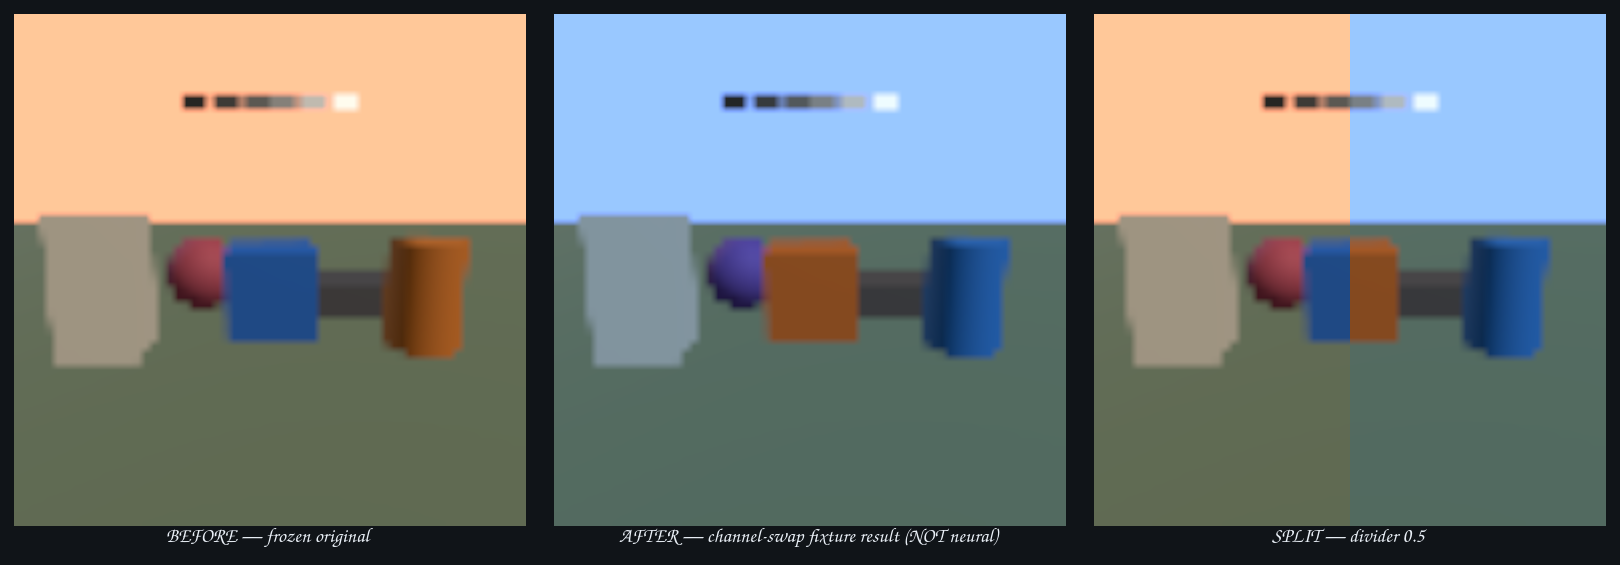
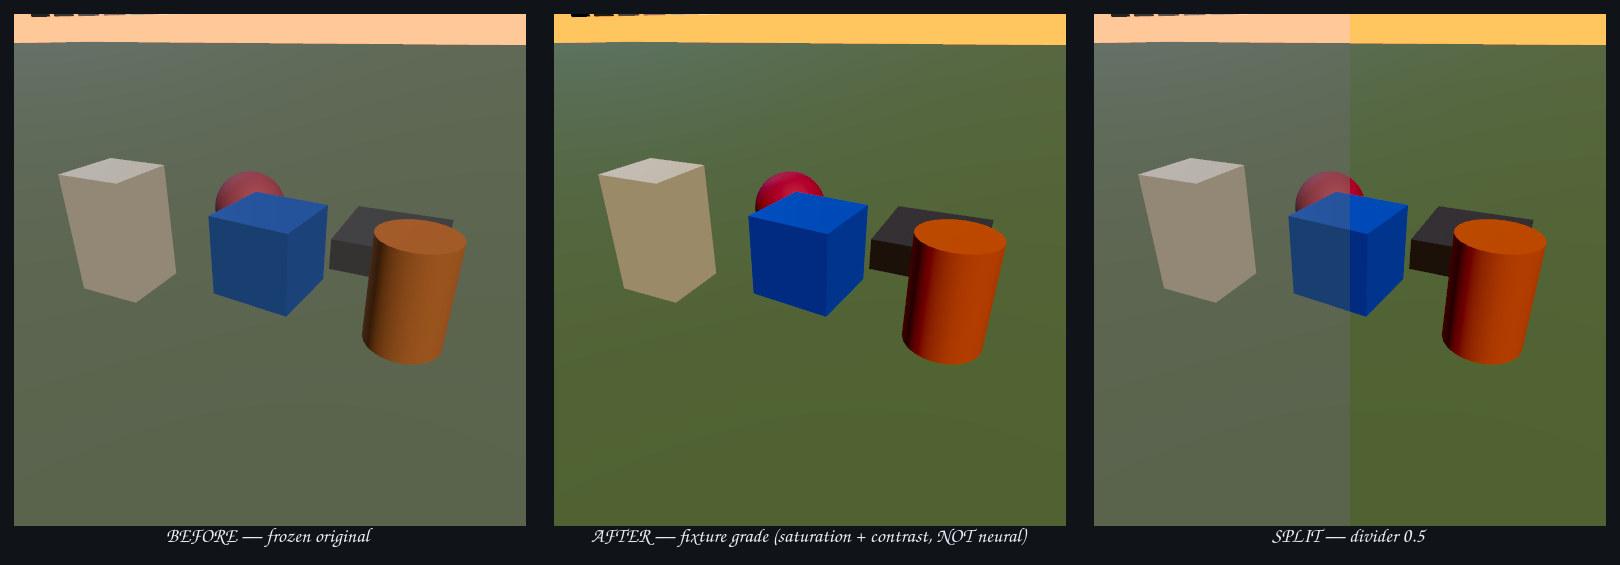
fix(neural): grade the frame instead of recolouring it, and stop blurring it 8x
Two reasons the Before/After pair was unreadable, both in the fixture rather
than the pipeline.

**Every pixel was recoloured.** The deterministic fixture was a channel swap,
chosen because it is exactly checkable: every output pixel must equal the
input's swapped channels, bit for bit. That is a good transport proof and a
bad picture — it reads as a bug rather than as a pipeline that works. It is
now a saturation lift around luma plus a contrast curve pivoted on mid grey.
Still deterministic and still per-pixel, so `fixture-proof.ts` re-derives it
on the CPU and compares to within the single f16 rounding step the GPU adds;
a dropped pass, a stale capture or a foreign device still misses by far more
than the tolerance and fails as `NEURAL_PROOF_GRADE`. The frame keeps its
colours and gains punch: ground 90,100,77 -> 80,98,50, sky 255,200,153 ->
255,197,94.

**Every pixel was blurred 8x.** The capture pair was 64x64 and is displayed
at full frame, so the Before panel was the 512x512 render stretched from a
64x64 texture — an 8x magnification, and no scene detail survives that. The
frozen original's horizon edge spanned 9 rows against the live frame's 3.
The pair is now sized from the viewport on the first frame and capped at the
PRD's 512-pixel neural input without changing the aspect: 262,144 pixels
instead of 4,096, and an edge of 3 rows with a sharper delta than the live
frame's.

The scene is also reframed onto a shallow set — horizon in the top third,
[…]

diff --git a/packages/create-threenative/agent-docs/examples/neural-rendering/NeuralSnapshotScene.ts b/packages/create-threenative/agent-docs/examples/neural-rendering/NeuralSnapshotScene.ts
@@ -60,7 +60,7 @@ function cardRow(
   const materials = colors.map((rgb) => new MeshStandardMaterial({ color: new Color(...rgb) }));
   materials.forEach((material, index) => {
     const patch = new Mesh(geometry, material);
-    patch.position.set((index - (colors.length - 1) / 2) * step, y, -3.4);
+    patch.position.set(-4.3 + (index - (colors.length - 1) / 2) * step, y, -2.2);
     ctx.add(patch);
   });
   return materials;
@@ -87,11 +87,15 @@ export class NeuralSnapshotScene extends Scene<NeuralSandboxState> {
   #cleanup: (() => Promise<void>) | undefined;
 
   override enter(ctx: ICtx<NeuralSandboxState>): SceneFrame<NeuralSandboxState> {
-    console.log("TN_NEURAL_FIXTURE: channel-swap integration test, NOT neural enhancement");
+    console.log("TN_NEURAL_FIXTURE: deterministic grade integration test, NOT neural enhancement");
     const bridge = createWebGPUInterop(ctx.renderer);
     const camera = ctx.camera as PerspectiveCamera;
-    camera.position.set(0, 0.7, 5.6);
-    camera.lookAt(0, -0.35, 0);
+    // Looking down onto a shallow set, so the horizon sits in the top third and the props fill
+    // the frame. A camera at eye height aimed at the horizon put a flat band of sky over a flat
+    // band of ground with the props a smudge in between, which is not a frame anyone can judge a
+    // render path on.
+    camera.position.set(2.2, 1.9, 4.8);
+    camera.lookAt(0, -0.9, 0);
     camera.updateProjectionMatrix();
     ctx.scene.background = new Color(...backgrounds[0]);
 
@@ -101,7 +105,9 @@ export class NeuralSnapshotScene extends Scene<NeuralSandboxState> {
     key.position.set(4, 6, 4);
     const rim = new DirectionalLight(0x9fc4ff, 1.1);
     rim.position.set(-5, 3, -4);
-    for (const light of [new AmbientLight(0xffffff, 0.55), key, rim]) ctx.scene.add(light);
+    // Fill is deliberately low: at 0.55 ambient every surface sat within a few percent of the
+    // ground and the props read as one flat mass.
+    for (const light of [new AmbientLight(0xffffff, 0.22), key, rim]) ctx.scene.add(light);
 
     const disposals: Array<() => void> = [];
     const add = (mesh: Mesh): Mesh => {
@@ -132,7 +138,7 @@ export class NeuralSnapshotScene extends Scene<NeuralSandboxState> {
 
     const ground = add(
       new Mesh(
-        new PlaneGeometry(40, 40),
+        new PlaneGeometry(400, 400),
         new MeshStandardMaterial({ color: 0x5d6b52, roughness: 0.98 }),
       ),
     );
@@ -167,32 +173,63 @@ export class NeuralSnapshotScene extends Scene<NeuralSandboxState> {
     for (const material of cardMaterials) disposals.push(() => material.dispose());
 
     const world = pass(ctx.scene, camera);
-    const provider = createFixtureProvider(bridge.device, 64, 64);
-    if (ctx.renderer.createRenderChain === undefined)
+    // Bound here because the graph is built on the first frame, where a fresh property lookup
+    // would no longer narrow; the receiver stays the renderer either way.
+    const createRenderChain = ctx.renderer.createRenderChain?.bind(ctx.renderer);
+    if (createRenderChain === undefined)
       throw new Error("NEURAL_CHAIN: renderer has no render-chain factory");
-    const capture = attachNeuralCapture({
-      worldPass: world,
-      bridge,
-      provider,
-      maxBytes: 8 * 1024 * 1024,
-      // `chain` is assigned on the next statement; this closure only runs once the scene has
-      // entered, which is after that assignment.
-      rebuildGraph: () => {
-        if (!chain.disposed) chain.apply();
-      },
-    });
-    const chain = ctx.renderer.createRenderChain({
-      input: world.getTextureNode(),
-      worldPass: world,
-      stages: [capture.stage],
-      request: { stages: [capture.stage.name], tier: "high" },
-    });
 
+    // The capture pair is displayed at full frame, so its resolution *is* the Before/After
+    // resolution: a 64x64 capture stretched over a 512x512 frame is the whole picture, blurred
+    // 8x, and no amount of scene detail survives that. The size is therefore taken from the
+    // viewport on the first frame — `PassNode.renderTarget` is not sized until the pass renders,
+    // and the viewport is the number the pair is finally presented at — and capped at the PRD's
+    // 512-pixel neural input without changing the frame's aspect, which is the only resampling
+    // this leaves and is reported in `state.resampling`.
+    const MAX_NEURAL_INPUT = 512;
+    let neural:
+      | {
+          capture: ReturnType<typeof attachNeuralCapture>;
+          chain: RenderChain;
+          width: number;
+          height: number;
+        }
+      | undefined;
     let exited = false;
+
+    const buildNeuralGraph = (frameCtx: Parameters<SceneFrame<NeuralSandboxState>>[0]): void => {
+      const { width, height } = frameCtx.viewport.size;
+      const scale = Math.min(1, MAX_NEURAL_INPUT / Math.max(width, height, 1));
+      const inputWidth = Math.max(1, Math.round(width * scale));
+      const inputHeight = Math.max(1, Math.round(height * scale));
+      const provider = createFixtureProvider(bridge.device, inputWidth, inputHeight);
+      const capture = attachNeuralCapture({
+        worldPass: world,
+        bridge,
+        provider,
+        maxBytes: 8 * 1024 * 1024,
+        // Assigned one statement below; this closure only runs once the chain exists.
+        rebuildGraph: () => {
+          const built = neural;
+          if (built !== undefined && !built.chain.disposed) built.chain.apply();
+        },
+      });
+      const chain = createRenderChain({
+        input: world.getTextureNode(),
+        worldPass: world,
+        stages: [capture.stage],
+        request: { stages: [capture.stage.name], tier: "high" },
+      });
+      neural = { capture, chain, width: inputWidth, height: inputHeight };
+    };
+
     this.#cleanup = async () => {
       exited = true;
-      await capture.dispose();
-      chain.dispose();
+      const built = neural;
+      neural = undefined;
+      if (built === undefined) return;
+      await built.capture.dispose();
+      built.chain.dispose();
       world.dispose();
       for (const dispose of disposals) dispose();
     };
@@ -202,6 +239,8 @@ export class NeuralSnapshotScene extends Scene<NeuralSandboxState> {
     let proofCount = 0;
     let error = "";
     return (frameCtx, dt) => {
+      if (neural === undefined) buildNeuralGraph(frameCtx);
+      const { capture, width, height } = neural as NonNullable<typeof neural>;
       spinner.rotation.y += dt * 0.6;
       const keys = frameCtx.input.raw.keys;
       const held = keys.has("KeyC");
@@ -223,7 +262,7 @@ export class NeuralSnapshotScene extends Scene<NeuralSandboxState> {
         checking = true;
         const background = backgrounds[proofCount];
         if (background === undefined) throw new Error("NEURAL_PROOF: invalid sequence");
-        void readFixtureProof(bridge, capture.textures, 64, 64, background)
+        void readFixtureProof(bridge, capture.textures, width, height, background)
           .then((proof) => {
             if (exited) return;
             proofCount += 1;

diff --git a/packages/create-threenative/agent-docs/examples/neural-rendering/fixture-proof.ts b/packages/create-threenative/agent-docs/examples/neural-rendering/fixture-proof.ts
@@ -1,5 +1,25 @@
 import type { Texture } from "three";
+import {
+  FIXTURE_CONTRAST,
+  FIXTURE_LUMA,
+  FIXTURE_PIVOT,
+  FIXTURE_SATURATION,
+} from "./fixture-provider.js";
 import type { INeuralGPUBridge } from "./gpu-contract.js";
+
+/**
+ * Re-derive one graded channel on the CPU, exactly as `fixture_grade` does on the GPU. Kept here
+ * rather than in the shader's file so a reader comparing the two sees the same four constants
+ * twice; `fixture-provider.ts` exports them so the two cannot drift.
+ */
+function gradeChannel(value: number, luma: number): number {
+  const saturated = luma + (value - luma) * FIXTURE_SATURATION;
+  return Math.max(0, (saturated - FIXTURE_PIVOT) * FIXTURE_CONTRAST + FIXTURE_PIVOT);
+}
+
+function channelLuma(red: number, green: number, blue: number): number {
+  return red * FIXTURE_LUMA[0] + green * FIXTURE_LUMA[1] + blue * FIXTURE_LUMA[2];
+}
 
 function half(bits: number): number {
   const sign = bits & 0x8000 ? -1 : 1;
@@ -30,15 +50,32 @@ export function verifyFixturePixels(
   let changedPixels = 0;
   let hdrPixels = 0;
   for (let p = 0; p < original.length; p += 4) {
-    if (
-      enhanced[p] !== original[p + 2] ||
-      enhanced[p + 1] !== original[p + 1] ||
-      enhanced[p + 2] !== original[p] ||
-      enhanced[p + 3] !== original[p + 3]
-    ) {
-      throw new Error("NEURAL_PROOF_CHANNEL: compute output is not the expected RGBA transform");
+    const red = half(original[p] ?? 0);
+    const green = half(original[p + 1] ?? 0);
+    const blue = half(original[p + 2] ?? 0);
+    const luma = channelLuma(red, green, blue);
+    for (const [channel, value] of [
+      [0, red],
+      [1, green],
+      [2, blue],
+    ] as const) {
+      const actual = half(enhanced[p + channel] ?? 0);
+      const expected = gradeChannel(value, luma);
+      // The GPU computes in f32 and lands in f16, so the re-derivation is compared with the one
+      // rounding step it cannot reproduce. A dropped pass, a stale capture or a foreign device
+      // misses by far more than this.
+      const tolerance = Math.max(0.004, Math.abs(expected) * 0.006);
+      if (!Number.isFinite(actual) || Math.abs(actual - expected) > tolerance) {
+        throw new Error(
+          `NEURAL_PROOF_GRADE: compute output is not the fixture grade at pixel ${p / 4} channel ${channel}` +
+            ` (expected ${expected.toFixed(4)}, read ${actual.toFixed(4)})`,
+        );
+      }
+      if (Math.abs(gradeChannel(value, luma) - value) > 0.02) changedPixels += 1;
     }
-    if (original[p] !== original[p + 2]) changedPixels += 1;
+    if (enhanced[p + 3] !== original[p + 3]) {
+      throw new Error("NEURAL_PROOF_ALPHA: compute output did not preserve alpha");
+    }
     if (
       Math.max(half(original[p] ?? 0), half(original[p + 1] ?? 0), half(original[p + 2] ?? 0)) > 1
     )

diff --git a/packages/create-threenative/agent-docs/examples/neural-rendering/fixture-provider.ts b/packages/create-threenative/agent-docs/examples/neural-rendering/fixture-provider.ts
@@ -1,15 +1,40 @@
 import type { INeuralComputeProvider } from "./gpu-contract.js";
 import { ImageKernel, validateImagePair } from "./image-kernel.js";
 
+/**
+ * The fixture's grade, in scene-linear HDR. Deterministic, order-independent per pixel, and
+ * simple enough to re-derive exactly on the CPU — which is what makes it a *proof* rather than
+ * an effect: a saturation lift around luma, then a contrast curve pivoted on mid grey.
+ *
+ * A channel swap was the first choice here because it is unmissably wrong when it is wrong. It
+ * also recolours literally every pixel, so the Before/After pair read as a bug rather than as the
+ * pipeline working. This grades instead: the frame keeps its colours, gains saturation and
+ * contrast, and a broken transport still shows up — a dropped pass, a stale capture or a
+ * mismatched device all fail the CPU re-derivation in `fixture-proof.ts`.
+ */
+export const FIXTURE_LUMA = [0.2126, 0.7152, 0.0722] as const;
+export const FIXTURE_SATURATION = 1.45;
+export const FIXTURE_CONTRAST = 1.18;
+export const FIXTURE_PIVOT = 0.18;
+
 const SHADER = /* wgsl */ `
 @group(0) @binding(0) var original: texture_2d<f32>;
 @group(0) @binding(1) var enhanced: texture_storage_2d<rgba16float, write>;
+
+const LUMA = vec3<f32>(0.2126, 0.7152, 0.0722);
+const SATURATION = 1.45;
+const CONTRAST = 1.18;
+const PIVOT = 0.18;
+
 @compute @workgroup_size(8, 8)
-fn fixture_channel_swap(@builtin(global_invocation_id) id: vec3<u32>) {
+fn fixture_grade(@builtin(global_invocation_id) id: vec3<u32>) {
   let size = textureDimensions(enhanced);
   if (any(id.xy >= size)) { return; }
   let color = textureLoad(original, vec2<i32>(id.xy), 0);
-  textureStore(enhanced, vec2<i32>(id.xy), vec4<f32>(color.b, color.g, color.r, color.a));
+  let luma = dot(color.rgb, LUMA);
+  let saturated = mix(vec3<f32>(luma), color.rgb, SATURATION);
+  let graded = (saturated - vec3<f32>(PIVOT)) * CONTRAST + vec3<f32>(PIVOT);
+  textureStore(enhanced, vec2<i32>(id.xy), vec4<f32>(max(graded, vec3<f32>(0.0)), color.a));
 }`;
 
 /** An actual deterministic WGSL transform. It is deliberately NOT a neural model. */
@@ -22,12 +47,12 @@ export function createFixtureProvider(
     if (!Number.isSafeInteger(value) || value < 1 || value > 512)
       throw new Error("NEURAL_DIMENSION: invalid fixture size");
   }
-  const kernel = new ImageKernel(device, SHADER, "fixture_channel_swap");
+  const kernel = new ImageKernel(device, SHADER, "fixture_grade");
   return {
     device,
     width,
     height,
-    id: "integration-fixture/channel-swap",
+    id: "integration-fixture/grade",
     kind: "fixture",
     estimatedBytes: 0,
     encode(encoder, { original, enhanced }) {

diff --git a/packages/create-threenative/__tests__/neural-render-proof.spec.ts b/packages/create-threenative/__tests__/neural-render-proof.spec.ts
@@ -2,13 +2,44 @@ import assert from "node:assert/strict";
 import { test } from "vitest";
 import { verifyFixturePixels } from "../agent-docs/examples/neural-rendering/fixture-proof.js";
 
-test("diagnostic proof checks actual HDR pixels, channel routing, alpha and current source", () => {
-  const original = new Uint16Array([0x4400, 0x3400, 0x3800, 0x3c00]);
-  const enhanced = new Uint16Array([0x3800, 0x3400, 0x4400, 0x3c00]);
+/** float32 -> float16 bits, so the fixture can be written the way the GPU would store it. */
+function toHalf(value: number): number {
+  if (value === 0) return 0;
+  const sign = value < 0 ? 0x8000 : 0;
+  const magnitude = Math.abs(value);
+  const exponent = Math.floor(Math.log2(magnitude));
+  const biased = exponent + 15;
+  if (biased <= 0) return sign | Math.round(magnitude / 2 ** -24);
+  if (biased >= 31) return sign | 0x7c00;
+  return sign | (biased << 10) | Math.min(1023, Math.round((magnitude / 2 ** exponent - 1) * 1024));
+}
+
+test("diagnostic proof re-derives the GPU grade, preserves alpha and checks the current source", () => {
+  // [4, 0.25, 0.5] plus one saturated mid-grey, graded exactly as the shader does.
+  const original = new Uint16Array([
+    0x4400, 0x3400, 0x3800, 0x3c00, 0x3800, 0x3800, 0x3800, 0x3c00,
+  ]);
+  const graded = (value: number, luma: number): number => {
+    const saturated = luma + (value - luma) * 1.45;
+    return Math.max(0, (saturated - 0.18) * 1.18 + 0.18);
+  };
+  const luma = (r: number, g: number, b: number): number => r * 0.2126 + g * 0.7152 + b * 0.0722;
+  const write = (target: Uint16Array, offset: number, r: number, g: number, b: number): void => {
+    const l = luma(r, g, b);
+    target[offset] = toHalf(graded(r, l));
+    target[offset + 1] = toHalf(graded(g, l));
+    target[offset + 2] = toHalf(graded(b, l));
+  };
+  const enhanced = new Uint16Array(original.length);
+  enhanced[3] = original[3] ?? 0;
+  enhanced[7] = original[7] ?? 0;
+  write(enhanced, 0, 4, 0.25, 0.5);
+  write(enhanced, 4, 0.5, 0.5, 0.5);
+
   const proof = verifyFixturePixels(original, enhanced, [4, 0.25, 0.5]);
-  assert.equal(proof.pixels, 1);
-  assert.equal(proof.changedPixels, 1);
-  assert.throws(() => verifyFixturePixels(original, original, [4, 0.25, 0.5]), /CHANNEL/);
+  assert.equal(proof.pixels, 2);
+  assert.ok(proof.changedPixels > 0);
+  assert.throws(() => verifyFixturePixels(original, original, [4, 0.25, 0.5]), /GRADE/);
   assert.throws(() => verifyFixturePixels(original, enhanced, [0.25, 3, 1]), /SOURCE/);
 });
 

diff --git a/packages/create-threenative/__tests__/opendlss-nr-adapter.spec.ts b/packages/create-threenative/__tests__/opendlss-nr-adapter.spec.ts
@@ -197,7 +197,7 @@ test("fixture performs a real compute dispatch and is never labeled as neural en
   const provider = createFixtureProvider(f.device as never, 256, 256);
   assert.equal(provider.kind, "fixture");
   provider.encode(f.encoder as never, { original: f.texture(), enhanced: f.texture() } as never);
-  assert.ok(f.log.includes("fixture_channel_swap"));
+  assert.ok(f.log.includes("fixture_grade"));
   assert.equal(f.log.includes("network"), false);
   provider.dispose();
   assert.equal(f.destroyed(), 0);

diff --git a/packages/create-threenative/__tests__/neural-render-capture.spec.ts b/packages/create-threenative/__tests__/neural-render-capture.spec.ts
@@ -118,7 +118,7 @@ test("binds to the existing world pass and records capture -> fixture -> submit 
     "world",
     "resolve world",
     "capture_linear_hdr",
-    "fixture_channel_swap",
+    "fixture_grade",
     "submit",
   ]);
   f.done.resolve();

diff --git a/packages/create-threenative/agent-docs/examples/neural-rendering/README.md b/packages/create-threenative/agent-docs/examples/neural-rendering/README.md
@@ -52,12 +52,17 @@ Use the generated game's existing browser or desktop entry/build commands. The s
 DOM, canvas extraction, browser-only crypto, dynamic imports, physics, external assets or weights.
 **C** requests a two-capture GPU diagnostic. **1 / 2 / 3** choose original / split / transformed;
 **left / right arrows** move the divider. The console and playtest state identify this as
-**channel-swap integration test, NOT neural enhancement**. The final display stays frozen;
+**deterministic grade integration test, NOT neural enhancement**. The final display stays frozen;
 recapture with C rather than mistaking the old image for live output.
 
 The diagnostic first captures an HDR background, then changes it and captures again. Its small,
-diagnostic-only GPU readbacks verify the expected current source, nonzero HDR signal, exact
-R/B transformation and preserved alpha. A queued job, unchanged output, all-zero buffer or stale
+diagnostic-only GPU readbacks verify the expected current source, nonzero HDR signal, the fixture
+grade re-derived exactly on the CPU, and preserved alpha. The grade is a saturation lift around
+luma plus a contrast curve pivoted on mid grey — deterministic and per-pixel, so the CPU can
+re-derive it to within one rounding step, and a dropped pass, a stale capture or a foreign device
+still fails loudly. A channel swap was the first choice and was replaced: it is unmissably wrong
+when wrong, but it recolours every pixel, so the Before/After pair read as a bug rather than as a
+pipeline that works. A queued job, unchanged output, all-zero buffer or stale
 background cannot set `proofPassed`. The runtime capture/provider path does **not** read images
 back to the CPU. Do not enable `readFixtureProof()` in gameplay or neural performance measurements.
 This diagnostic covers transport, not real-model quality or complete display-color parity.
